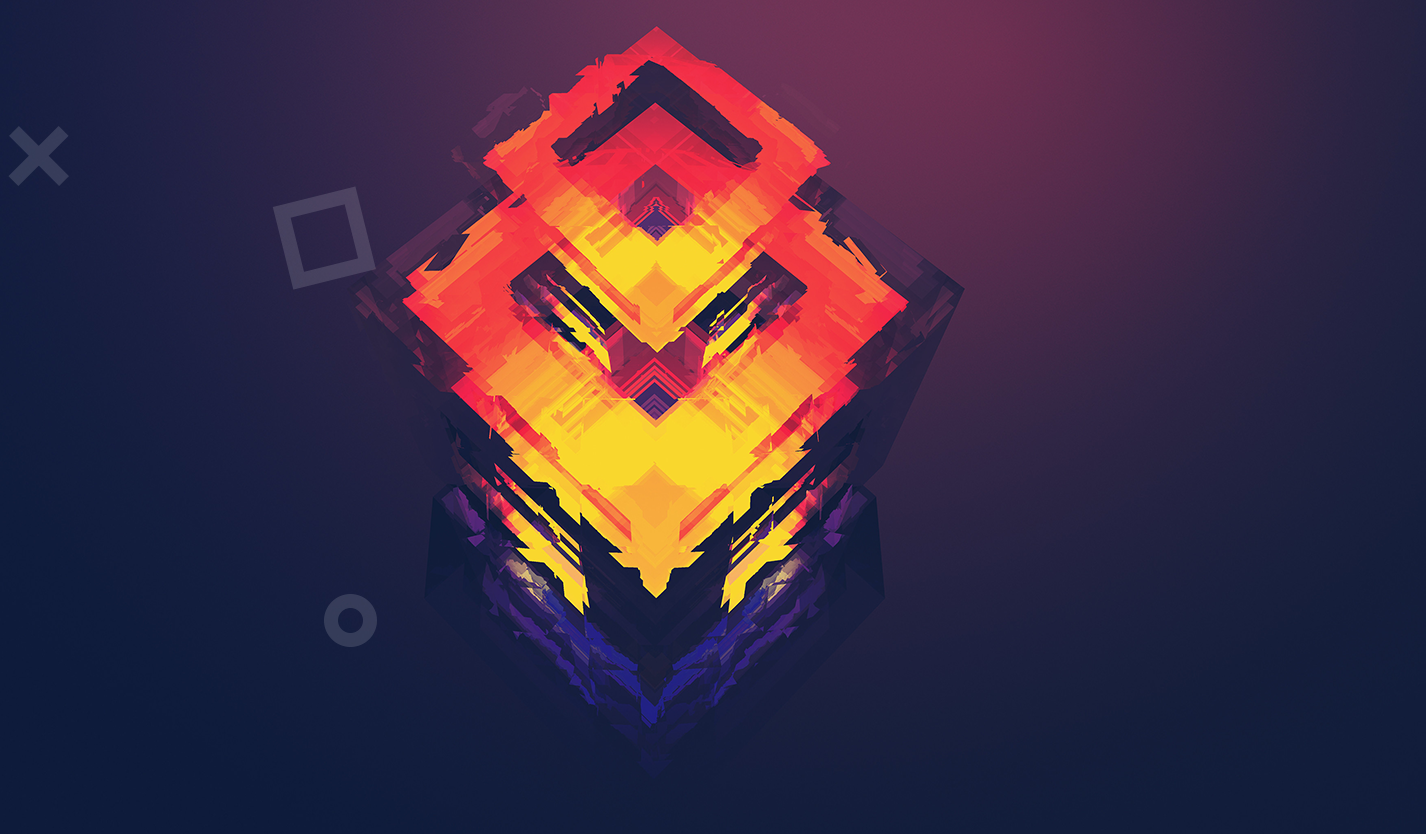
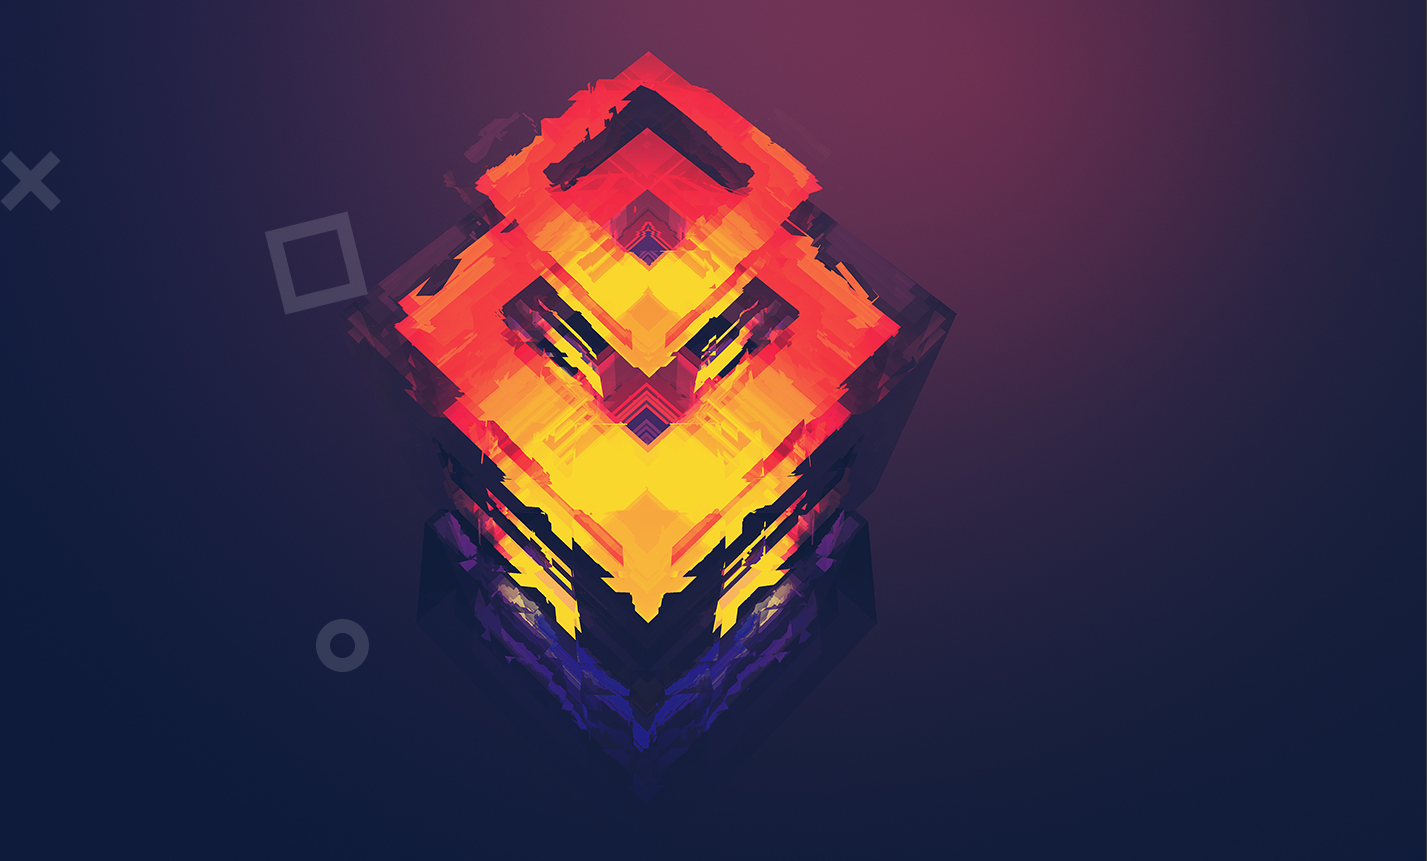
restaurant header template

Changed region(s): [[0.1851, 0.0312, 0.6788, 0.8729], [0.0, 0.1559, 0.0617, 0.2494], [0.216, 0.717, 0.2777, 0.7794]]

diff --git a/restaurant-header/index.html b/restaurant-header/index.html
@@ -13,61 +13,108 @@
     <!--font awesome icons -->
     <link rel="stylesheet" href="https://use.fontawesome.com/releases/v5.1.0/css/all.css" integrity="sha384-lKuwvrZot6UHsBSfcMvOkWwlCMgc0TaWr+30HWe3a4ltaBwTZhyTEggF5tJv8tbt" crossorigin="anonymous">
 
-    <!--aos animation library -->
-    <link href="https://unpkg.com/aos@2.3.1/dist/aos.css" rel="stylesheet">
-
     <!-- main css file -->
     <link href="css/style.css" rel="stylesheet">
+
+    <link href="https://unpkg.com/ionicons@4.2.5/dist/css/ionicons.min.css" rel="stylesheet">
+
 
 
 </head>
 
 <body>
-    <div class="background" style="background-image: url('img/restaurant-header.jpg')" class="img-responsive"></div>
 
-    <div class="container main ">
-        <div class="main">
-            <div class="container content mx-auto">
-                <nav class="navbar">
-                    <a href="#" class="navbar-brand"><span class="fa fa-utensil-spoon"></span></a>
-                    <ul class="nav pl-5">
-                        <li class="nav-item">
-                            <a class="nav-link text-dark" href="#">Home</a>
+    <main>
+        <div class="background" style="background-image: url('img/salad.png')" class="img-responsive"></div>
+
+        <div class="container main ">
+            <div class="main">
+                <div class="container content mx-auto">
+                    <nav class="navbar pt-4">
+                        <a href="#" class="navbar-brand"><img src="img/fork.png" alt="logo" class="logo"></a>
+                        <ul class="nav pl-5">
+                            <li class="nav-item">
+                                <a class="nav-link active" href="#">Home</a>
+                            </li>
+                            <li class="nav-item">
+                                <a class="nav-link" href="#">Dishes</a>
+                            </li>
+                            <li class="nav-item">
+                                <a class="nav-link" href="#">Gallery</a>
+                            </li>
+                            <li class="nav-item">
+                                <a class="nav-link" href="#">Contact</a>
+                            </li>
+                        </ul>
+                    </nav>
+                </div>
+
+                <div class="content-2">
+                    <div class="container">
+                        <div class="header">
+                            <h2 class="text-green">Experience <br /> Smoky glazed & more</h2>
+                        </div>
+
+                        <div class="description pb-4">
+                            <p>Lorem ipsum dolor sit amet, consectetur adipisicing elit. Debitis <br> adipisci eligendi impedit corrupti dolorem possimus <br> cum amet quam expedita ipsam.
+                        </div>
+
+                        <div class="getting-there">
+                            <span class="dash pr-2">&mdash;&mdash;</span> <span class="text text-uppercase small">Getting there</span>
+                        </div>
+                    </div>
+
+                </div>
+
+                <div class="social">
+                    <ul class="nav flex-column text-center">
+                        <li class="nav-item ">
+                            <a class="nav-link" href="#"><i class="icon ion-logo-facebook"></i></a>
                         </li>
                         <li class="nav-item">
-                            <a class="nav-link" href="#">Dishes</a>
+                            <a class="nav-link" href="#"><i class="icon ion-logo-twitter"></i></a>
                         </li>
                         <li class="nav-item">
-                            <a class="nav-link" href="#">Gallery</a>
+                            <a class="nav-link" href="#"><i class="icon ion-logo-instagram"></i></a>
                         </li>
                         <li class="nav-item">
-                            <a class="nav-link" href="#">Contact</a>
+                            <a class="nav-link" href="#"><i class="icon ion-logo-youtube"></i></a>
                         </li>
                     </ul>
-                </nav>
-            </div>
+                </div>
 
-            <div class="content-2">
-                <div class="container">
-                    <div class="header">
-                        <h2 class="text-green">Experience <br /> Smoky glazed & more</h2>
+                <div class="slideshow pt-5">
+
+                    <div class="arrow">
+
                     </div>
+                    <div class="images">
 
-                    <div class="description pb-4">
-                        <p>Lorem ipsum dolor sit amet, consectetur adipisicing elit. Debitis <br> adipisci eligendi impedit corrupti dolorem possimus <br> cum amet quam expedita ipsam.
-                    </div>
+                        <ul class="nav">
+                            <li class="nav-item">
 
-                    <div class="getting-there">
-                        <span class="dash pr-2">&mdash;&mdash;</span> <span class="text text-uppercase small">Getting there</span>
+                            </li>
+                            <li class="nav-item">
+                                <img src="img/tomatoes.png" alt="">
+                            </li>
+                            <li class="nav-item">
+                                <img src="img/stew.png" alt="" class="img-rounded center-block">
+                            </li>
+                            <li class="nav-item">
+                                <img src="img/half.png" alt="">
+                            </li>
+                        </ul>
                     </div>
                 </div>
 
+
+
+
             </div>
 
-
         </div>
+    </main>
 
-    </div>
 
 
 

diff --git a/restaurant-header/css/style.scss b/restaurant-header/css/style.scss
@@ -6,26 +6,39 @@ html {
     height: 100%;
 }
 
-.background {
-    position: fixed;
-    z-index: -1;
-width: 1200px;
-height: 100%;
-    background-size: contain;
-    background-position: center;
-    opacity: 0.6;
-    filter: blur(1px);
+main {
+    width: 90%;
+    height: 60vh;
+    margin-top: -100px;
 }
 
+.background {
+    position: fixed;
+    margin-left: -100px;
+    z-index: -1;
+    width: 100%;
+    height: 100%;
+    background-size: contain;
+    background-position: center;
+    background-repeat: no-repeat;
+}
 
+::selection {
+    background: #00A652;
+}
 
 
 // navigation section
 nav {
     width: 70%;
-    margin-left: auto;
+    margin-left: 490px;
     position: fixed;
     z-index: 0;
+
+    .logo {
+        width: 40px;
+        height: 40px;
+    }
 
 
     li {
@@ -34,26 +47,32 @@ nav {
             color: black;
             font-weight: bold;
         }
+
+        a:hover,
+        a.active {
+            color: #00A652;
+        }
+
+
     }
 }
 
 .content {
     margin-top: 100px;
     margin-bottom: 100px;
-    background: white;
 }
 
 .main{
-    background: white;
     .content-2 {
         width: 70%;
-        margin-left: 35%;
+        margin-left: 45%;
     }
 
     .header {
 
         h2 {
             line-height: 45px;
+            letter-spacing: 2px;
             color: #00A652;
         }
 
@@ -74,6 +93,51 @@ nav {
             font-weight: 700;
             font-size: 0.7em;
         }
+    }
+
+    .social {
+        position: absolute;
+        z-index: 12;
+        right: 0;
+        background: #00A652;
+        margin-top: -220px;
+        padding-top: 30px;
+        padding-bottom: 30px;
+
+        ul {
+            li {
+                a {
+                    color: white;
+                }
+            }
+        }
+    }
+
+    .slideshow {
+        position: fixed;
+        right: 0;
+
+        .images {
+            margin-right: -70px;
+            ul {
+                li {
+                    padding-left: 20px;
+                    img {
+                        width: 150px;
+                        height: 150px;
+                    }
+                }
+            }
+        }
+    }
+
+    .arrow {
+        cursor: pointer;
+        position: fixed;
+        margin-top: 130px;
+        border-top: 10px solid transparent;
+        border-bottom: 10px solid transparent;
+        border-right: 10px solid #00A652;
     }
 
 }

diff --git a/restaurant-header/css/style.css b/restaurant-header/css/style.css
@@ -6,43 +6,58 @@ html {
   height: 100%;
 }
 
+main {
+  width: 90%;
+  height: 60vh;
+  margin-top: -100px;
+}
+
 .background {
   position: fixed;
+  margin-left: -100px;
   z-index: -1;
-  width: 1200px;
+  width: 100%;
   height: 100%;
   background-size: contain;
   background-position: center;
-  opacity: 0.6;
-  filter: blur(1px);
+  background-repeat: no-repeat;
+}
+
+::selection {
+  background: #00A652;
 }
 
 nav {
   width: 70%;
-  margin-left: auto;
+  margin-left: 490px;
   position: fixed;
   z-index: 0;
+}
+nav .logo {
+  width: 40px;
+  height: 40px;
 }
 nav li a {
   color: black;
   font-weight: bold;
 }
+nav li a:hover,
+nav li a.active {
+  color: #00A652;
+}
 
 .content {
   margin-top: 100px;
   margin-bottom: 100px;
-  background: white;
 }
 
-.main {
-  background: white;
-}
 .main .content-2 {
   width: 70%;
-  margin-left: 35%;
+  margin-left: 45%;
 }
 .main .header h2 {
   line-height: 45px;
+  letter-spacing: 2px;
   color: #00A652;
 }
 .main .description p {
@@ -57,6 +72,40 @@ nav li a {
 .main .getting-there .text {
   font-weight: 700;
   font-size: 0.7em;
+}
+.main .social {
+  position: absolute;
+  z-index: 12;
+  right: 0;
+  background: #00A652;
+  margin-top: -220px;
+  padding-top: 30px;
+  padding-bottom: 30px;
+}
+.main .social ul li a {
+  color: white;
+}
+.main .slideshow {
+  position: fixed;
+  right: 0;
+}
+.main .slideshow .images {
+  margin-right: -70px;
+}
+.main .slideshow .images ul li {
+  padding-left: 20px;
+}
+.main .slideshow .images ul li img {
+  width: 150px;
+  height: 150px;
+}
+.main .arrow {
+  cursor: pointer;
+  position: fixed;
+  margin-top: 130px;
+  border-top: 10px solid transparent;
+  border-bottom: 10px solid transparent;
+  border-right: 10px solid #00A652;
 }
 
 /*# sourceMappingURL=style.css.map */
